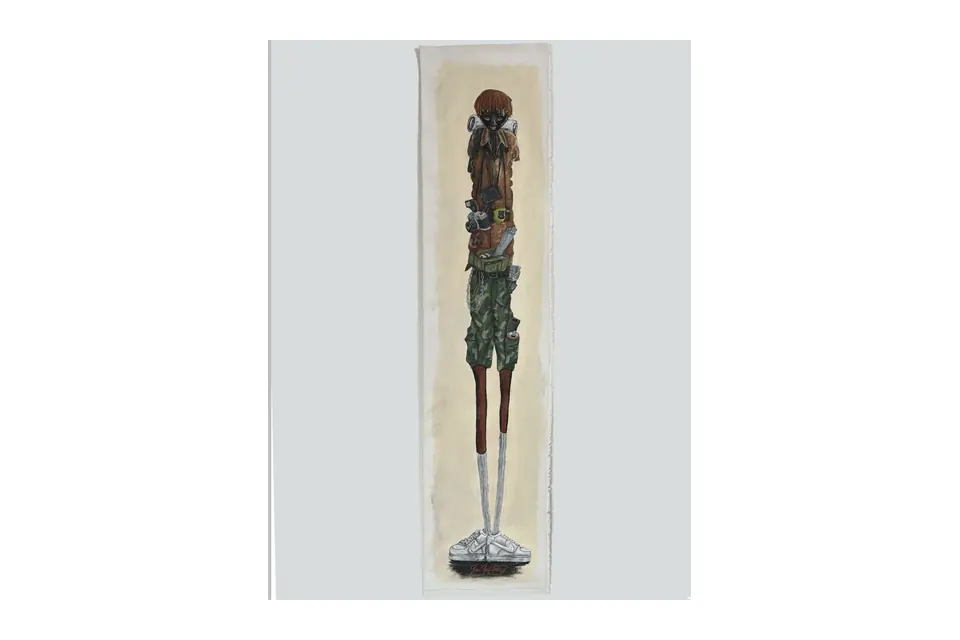
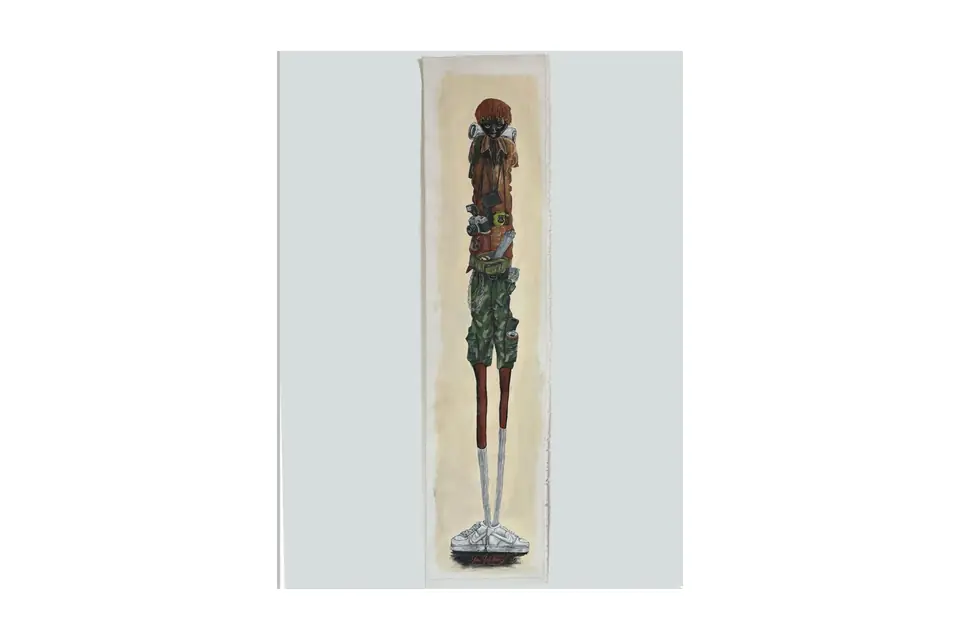
Add Tourist series paintings

Changed region(s): [[0.2812, 0.0625, 0.7188, 0.9375]]

diff --git a/src/data/products.js b/src/data/products.js
@@ -281,6 +281,28 @@ export const products = [
     description: "Oil, Acrylic on canvas. 160cm x 36cm.",
   },
   {
+    id: 103,
+    code: "PT-10",
+    title: "The Berliner",
+    category: "Paintings",
+    price: 460,
+    image: productAsset("Paintings", "The Berliner.webp"),
+    thumbnail: productAsset("Paintings", "thumbs/The Berliner.webp"),
+    details: ["Oil, Acrylic on canvas", "160cm x 36cm"],
+    description: "Oil, Acrylic on canvas. 160cm x 36cm.",
+  },
+  {
+    id: 104,
+    code: "PT-11",
+    title: "The Geisha",
+    category: "Paintings",
+    price: 460,
+    image: productAsset("Paintings", "The Geisha.webp"),
+    thumbnail: productAsset("Paintings", "thumbs/The Geisha.webp"),
+    details: ["Oil, Acrylic on canvas", "160cm x 36cm"],
+    description: "Oil, Acrylic on canvas. 160cm x 36cm.",
+  },
+  {
     id: 100,
     code: "PT-07",
     title: "Happy Birthday",